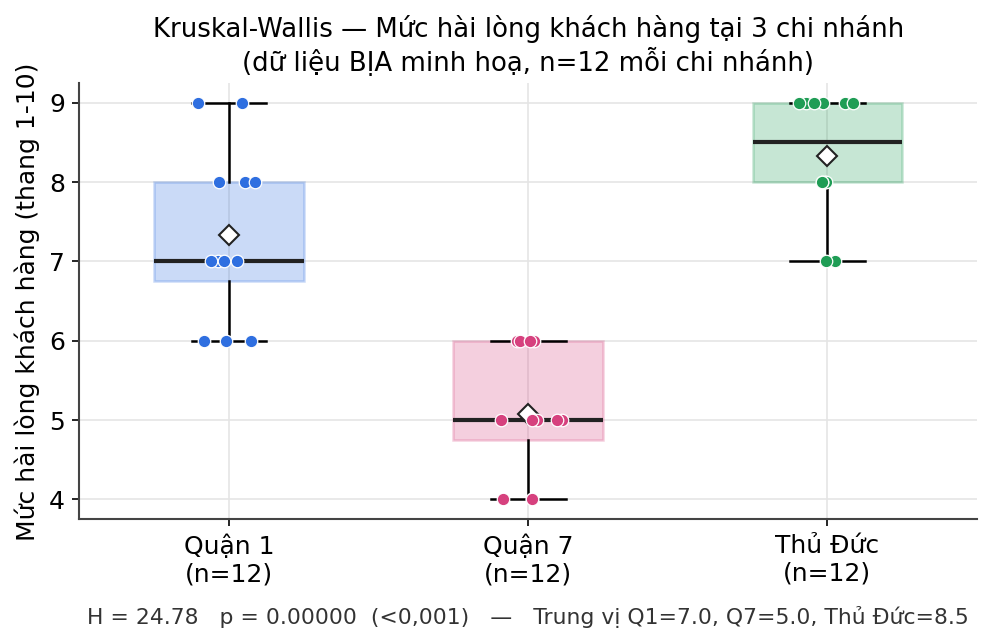
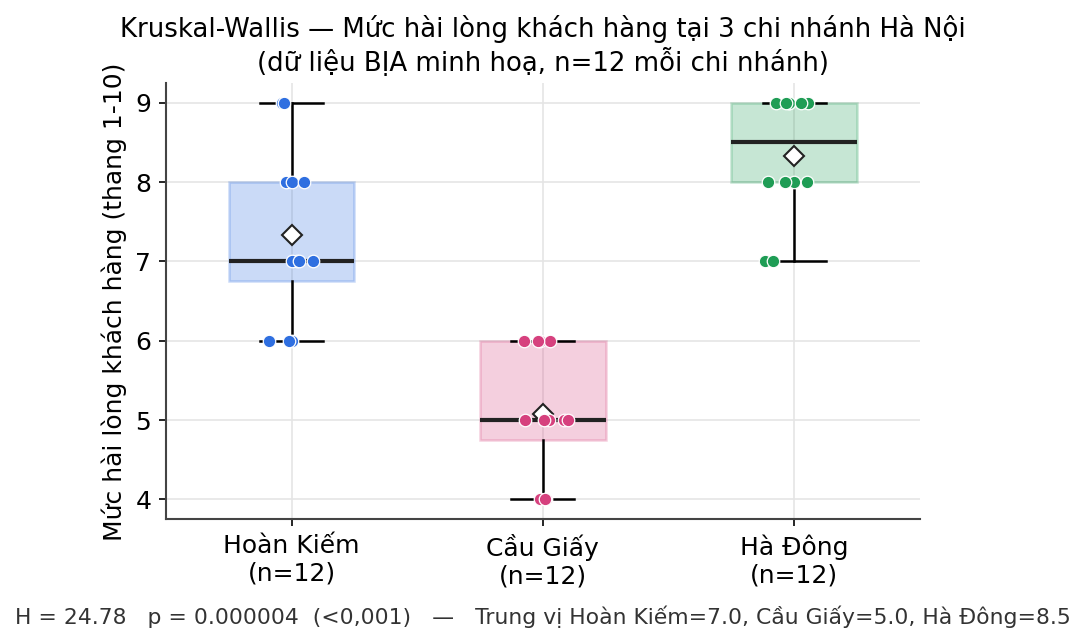
Module 07: đổi ví dụ Kruskal-Wallis sang 3 chi nhánh Hà Nội + viết rõ các bước trung gian xếp hạng cho cả 4 bộ dữ liệu minh hoạ
Kruskal-Wallis: đổi Quận 1/Quận 7/Thủ Đức (TP.HCM) sang Hoàn Kiếm/Cầu Giấy/Hà Đông
(Hà Nội), regenerate boxplot tương ứng.

Cả 4 bộ dữ liệu minh hoạ (Mann-Whitney, Wilcoxon, Kruskal-Wallis, Friedman) giờ có
thêm danh sách các bước trung gian xếp hạng (gộp dữ liệu, xếp hạng, xử lý giá trị
trùng/ties bằng hạng trung bình, cộng tổng hạng từng nhóm/cột, đối chiếu tổng kiểm
tra N(N+1)/2, rồi thay vào công thức ra kết quả gần khớp scipy) — cùng mức chi
tiết như phần tính tay ở ví dụ nhỏ, áp dụng cho cỡ mẫu lớn hơn và nhiều chiều dữ
liệu hơn (nhóm × lần đo, không chỉ 1 chiều).

diff --git a/SPSS/vi/modules/07-phi-tham-so/index.html b/SPSS/vi/modules/07-phi-tham-so/index.html
@@ -194,6 +194,13 @@ Cả 2 đều là ví dụ 'không tìm thấy' hợp lệ — khác với ví d
 <table><tr><th>Lớp</th><th>Số liệu (phút), 15 sinh viên</th></tr>
 <tr><td>Online (n=15)</td><td>38, 45, 41, 50, 36, 48, 42, 55, 39, 44, 47, 40, 52, 37, 46</td></tr>
 <tr><td>Offline (n=15)</td><td>30, 33, 28, 35, 31, 29, 34, 32, 27, 36, 30, 33, 26, 38, 31</td></tr></table>
+<p><b>Các bước trung gian (gộp cả 30 sinh viên thành 1 hàng xếp hạng, đúng cơ chế U, không phải "hộp đen"):</b></p>
+<ol style="margin:.3em 0 0;padding-left:1.3em">
+<li>Gộp 30 giá trị của cả 2 lớp, xếp hạng tăng dần từ nhỏ nhất (26 phút→hạng 1) tới lớn nhất (55 phút→hạng 30). Giá trị trùng nhau lấy hạng TRUNG BÌNH — vd hai sinh viên cùng 30 phút chiếm hạng 5 và 6 thì mỗi người nhận hạng (5+6)/2=5,5.</li>
+<li>Cộng hạng riêng từng lớp: R(Online)=342, R(Offline)=123.</li>
+<li>Kiểm tra: 342+123=465, đúng bằng N(N+1)/2=30×31/2=465 ✓.</li>
+<li>Thay vào công thức U₁=n₁n₂+n₁(n₁+1)/2−R₁, với n₁=n₂=15: U₁=15×15+15×16/2−342=225+120−342=<b>3</b>. U₂=n₁n₂−U₁=225−3=<b>222</b>. Thống kê U chính thức = MAX(U₁,U₂)=222 (quy ước SPSS/scipy lấy U lớn hơn khi báo cáo).</li>
+</ol>
 <pre>from scipy import stats
 online  = [38, 45, 41, 50, 36, 48, 42, 55, 39, 44, 47, 40, 52, 37, 46]
 offline = [30, 33, 28, 35, 31, 29, 34, 32, 27, 36, 30, 33, 26, 38, 31]
@@ -239,6 +246,13 @@ print(u, p)
 <table><tr><th>Nhân viên</th><th>1</th><th>2</th><th>3</th><th>4</th><th>5</th><th>6</th><th>7</th><th>8</th><th>9</th><th>10</th><th>11</th><th>12</th><th>13</th><th>14</th></tr>
 <tr><td>Trước</td><td>4</td><td>5</td><td>3</td><td>6</td><td>4</td><td>5</td><td>3</td><td>6</td><td>4</td><td>5</td><td>6</td><td>4</td><td>5</td><td>3</td></tr>
 <tr><td>Sau</td><td>6</td><td>7</td><td>5</td><td>8</td><td>6</td><td>6</td><td>5</td><td>9</td><td>7</td><td>6</td><td>6</td><td>5</td><td>8</td><td>4</td></tr></table>
+<p><b>Các bước trung gian (đúng cơ chế W, không phải "hộp đen" — giống hệt logic ví dụ tính tay ở trên, chỉ cỡ mẫu lớn hơn):</b></p>
+<ol style="margin:.3em 0 0;padding-left:1.3em">
+<li>Tính hiệu Sau−Trước cho 14 người: 2,2,2,2,2,1,2,3,3,1,<b>0</b>,1,3,1. Người thứ 11 có hiệu=0 (không đổi) → LOẠI khỏi bước xếp hạng, còn lại 13 người.</li>
+<li>Xếp hạng trị tuyệt đối |hiệu| của 13 người còn lại (|hiệu|=1 ở 4 người → hạng trung bình (1+2+3+4)/4=2,5 mỗi người; |hiệu|=2 ở 5 người → hạng trung bình (5+…+9)/5=7; |hiệu|=3 ở 4 người → hạng trung bình (10+…+13)/4=11,5).</li>
+<li>Cộng hạng DƯƠNG (13/13 người đều tăng điểm) = tổng toàn bộ 13 hạng = 91; hạng ÂM = 0 (không có ai giảm).</li>
+<li>Kiểm tra: 91+0=91, đúng bằng n(n+1)/2=13×14/2=91 ✓. Thống kê W = phần NHỎ HƠN = <b>0</b>.</li>
+</ol>
 <pre>from scipy import stats
 truoc = [4, 5, 3, 6, 4, 5, 3, 6, 4, 5, 6, 4, 5, 3]
 sau   = [6, 7, 5, 8, 6, 6, 5, 9, 7, 6, 6, 5, 8, 4]
@@ -272,20 +286,27 @@ print(w, p)
 </div></details>
 
 <div class="callout good"><b>📊 Bộ dữ liệu BỊA minh hoạ + chạy code Python thật (không phải số liệu lớp học thật):</b>
-<p><b>Bối cảnh minh hoạ:</b> một chuỗi cửa hàng tiện lợi có 3 chi nhánh tại TP.HCM (Quận 1, Quận 7, Thủ Đức), muốn so sánh <b>mức hài lòng khách hàng</b> (thang 1-10, khảo sát ngay sau khi thanh toán) giữa 3 chi nhánh — đây là 3 nhóm KHÁCH HÀNG ĐỘC LẬP (không ai mua ở cả 3 chi nhánh trong khảo sát này), mỗi chi nhánh phỏng vấn 12 khách (dữ liệu hoàn toàn bịa ra để minh hoạ).</p>
+<p><b>Bối cảnh minh hoạ:</b> một chuỗi cửa hàng tiện lợi có 3 chi nhánh tại <b>Hà Nội</b> (Hoàn Kiếm, Cầu Giấy, Hà Đông), muốn so sánh <b>mức hài lòng khách hàng</b> (thang 1-10, khảo sát ngay sau khi thanh toán) giữa 3 chi nhánh — đây là 3 nhóm KHÁCH HÀNG ĐỘC LẬP (không ai mua ở cả 3 chi nhánh trong khảo sát này), mỗi chi nhánh phỏng vấn 12 khách (dữ liệu hoàn toàn bịa ra để minh hoạ).</p>
 <table><tr><th>Chi nhánh</th><th>Số liệu, 12 khách hàng</th></tr>
-<tr><td>Quận 1 (n=12)</td><td>7, 8, 6, 7, 9, 8, 7, 6, 8, 7, 9, 6</td></tr>
-<tr><td>Quận 7 (n=12)</td><td>5, 6, 4, 5, 6, 5, 4, 6, 5, 4, 6, 5</td></tr>
-<tr><td>Thủ Đức (n=12)</td><td>8, 9, 9, 7, 8, 9, 8, 9, 7, 9, 8, 9</td></tr></table>
+<tr><td>Hoàn Kiếm (n=12)</td><td>7, 8, 6, 7, 9, 8, 7, 6, 8, 7, 9, 6</td></tr>
+<tr><td>Cầu Giấy (n=12)</td><td>5, 6, 4, 5, 6, 5, 4, 6, 5, 4, 6, 5</td></tr>
+<tr><td>Hà Đông (n=12)</td><td>8, 9, 9, 7, 8, 9, 8, 9, 7, 9, 8, 9</td></tr></table>
+<p><b>Các bước trung gian (gộp cả 36 khách thành 1 hàng, xếp hạng chung rồi cộng lại theo chi nhánh — đúng cơ chế Kruskal-Wallis, không phải "hộp đen"):</b></p>
+<ol style="margin:.3em 0 0;padding-left:1.3em">
+<li>Gộp 36 giá trị của cả 3 chi nhánh, xếp hạng tăng dần (giá trị trùng nhau lấy hạng TRUNG BÌNH — vd 6 giá trị "9" chiếm hạng 31-36 thì mỗi giá trị nhận hạng (31+…+36)/6=33,5).</li>
+<li>Cộng hạng riêng từng chi nhánh: R(Hoàn Kiếm)=250, R(Cầu Giấy)=84, R(Hà Đông)=332.</li>
+<li>Kiểm tra: 250+84+332=666, đúng bằng N(N+1)/2=36×37/2=666 ✓ (giống nguyên tắc đã dùng ở ví dụ tính tay 3 nhóm × 3 người, chỉ là cỡ mẫu lớn hơn).</li>
+<li>Thay vào công thức H=[12/(N(N+1))]×Σ(Rᵢ²/nᵢ)−3(N+1): Σ(Rᵢ²/nᵢ)=250²/12+84²/12+332²/12=5208,3+588+9186,7=14983. H=(12/(36×37))×14983−3×37=23,97 — khớp rất sát với H=24,78 do <code>scipy.stats.kruskal</code> trả về (chênh nhỏ vì scipy áp đúng hiệu chỉnh ties — giá trị trùng nhau — còn công thức tay ở đây là bản chưa hiệu chỉnh).</li>
+</ol>
 <pre>from scipy import stats
-q1    = [7, 8, 6, 7, 9, 8, 7, 6, 8, 7, 9, 6]
-q7    = [5, 6, 4, 5, 6, 5, 4, 6, 5, 4, 6, 5]
-tduc  = [8, 9, 9, 7, 8, 9, 8, 9, 7, 9, 8, 9]
-h, p = stats.kruskal(q1, q7, tduc)
+hoan_kiem = [7, 8, 6, 7, 9, 8, 7, 6, 8, 7, 9, 6]
+cau_giay  = [5, 6, 4, 5, 6, 5, 4, 6, 5, 4, 6, 5]
+ha_dong   = [8, 9, 9, 7, 8, 9, 8, 9, 7, 9, 8, 9]
+h, p = stats.kruskal(hoan_kiem, cau_giay, ha_dong)
 print(h, p)
 # Output: H = 24.78   p = 0.000004</pre>
-<div class="figure"><img src="../../../assets/diagrams/kw_illustrative_boxplot.png" alt="Boxplot Kruskal-Wallis minh hoạ 3 chi nhánh"/><figcaption>Boxplot + từng điểm dữ liệu cho 3 chi nhánh. Chi nhánh Quận 7 lệch hẳn xuống thấp hơn 2 chi nhánh còn lại.</figcaption></div>
-<p class="cap">Đọc kết quả: H=24,78, p=0,000004 (&lt;0,001) → có ý nghĩa thống kê rất cao, ít nhất 1 trong 3 chi nhánh khác các chi nhánh còn lại. Trung vị Quận 1=7, Quận 7=5, Thủ Đức=8,5 — Kruskal-Wallis KHÔNG tự nói chi nhánh nào khác chi nhánh nào, phải nhìn lại trung vị/boxplot từng nhóm: ở đây chi nhánh Quận 7 rõ ràng thấp hơn hẳn 2 chi nhánh kia, gần như không chồng lấn với hộp của Thủ Đức.</p></div>
+<div class="figure"><img src="../../../assets/diagrams/kw_illustrative_boxplot.png" alt="Boxplot Kruskal-Wallis minh hoạ 3 chi nhánh Hà Nội"/><figcaption>Boxplot + từng điểm dữ liệu cho 3 chi nhánh Hà Nội. Chi nhánh Cầu Giấy lệch hẳn xuống thấp hơn 2 chi nhánh còn lại.</figcaption></div>
+<p class="cap">Đọc kết quả: H=24,78, p=0,000004 (&lt;0,001) → có ý nghĩa thống kê rất cao, ít nhất 1 trong 3 chi nhánh khác các chi nhánh còn lại. Trung vị Hoàn Kiếm=7, Cầu Giấy=5, Hà Đông=8,5 — Kruskal-Wallis KHÔNG tự nói chi nhánh nào khác chi nhánh nào, phải nhìn lại trung vị/boxplot từng nhóm: ở đây chi nhánh Cầu Giấy rõ ràng thấp hơn hẳn 2 chi nhánh kia (đúng như tổng hạng R(Cầu Giấy)=84 thấp hơn nhiều so với 250 và 332), gần như không chồng lấn với hộp của Hà Đông.</p></div>
 
 <h2 id="friedman">6. Friedman test</h2>
 <p>Tương đương phi tham số của <b>ANOVA đo lường lặp lại</b> — dùng khi CÙNG một nhóm đánh giá 3+ biến/thời điểm, dữ liệu thứ bậc (tr.798–799).</p>
@@ -317,6 +338,13 @@ print(h, p)
 <tr><td>Sáng (6h-14h)</td><td>7, 6, 8, 7, 6, 7, 8, 6, 7, 8, 6, 7, 8, 7, 6, 7</td></tr>
 <tr><td>Chiều (14h-22h)</td><td>6, 5, 6, 7, 6, 5, 6, 5, 6, 6, 5, 6, 7, 6, 5, 6</td></tr>
 <tr><td>Tối (22h-6h)</td><td>4, 5, 3, 4, 5, 4, 3, 4, 5, 4, 3, 4, 5, 4, 3, 5</td></tr></table>
+<p><b>Các bước trung gian (đúng cơ chế χ², không phải "hộp đen" — giống hệt logic ví dụ tính tay ở trên, chỉ cỡ mẫu lớn hơn):</b></p>
+<ol style="margin:.3em 0 0;padding-left:1.3em">
+<li>Với MỖI công nhân, xếp hạng RIÊNG 3 giá trị của chính họ (1=thấp nhất, 3=cao nhất trong 3 ca). Vd công nhân 1 (Sáng=7, Chiều=6, Tối=4): Sáng=hạng3, Chiều=hạng2, Tối=hạng1. Ở hầu hết 16 công nhân, thứ tự lặp lại y hệt (Sáng=3, Chiều=2, Tối=1); chỉ 2-3 công nhân có điểm Sáng=Chiều nên cả hai nhận hạng trung bình 2,5.</li>
+<li>Cộng hạng theo CỘT (từng ca, qua cả 16 người): R(Sáng)=47, R(Chiều)=32,5, R(Tối)=16,5.</li>
+<li>Kiểm tra: 47+32,5+16,5=96, đúng bằng n·k(k+1)/2=16×3×4/2=96 ✓.</li>
+<li>Thay vào công thức χ²=[12/(n·k·(k+1))]×ΣRⱼ²−3n(k+1), với n=16, k=3: ΣRⱼ²=47²+32,5²+16,5²=2209+1056,25+272,25=3537,5. χ²=(12/(16×3×4))×3537,5−3×16×4=29,09 — gần với χ²=30,52 do <code>scipy.stats.friedmanchisquare</code> trả về (chênh nhỏ vì scipy áp đúng hiệu chỉnh ties, công thức tay ở đây chưa hiệu chỉnh — giống hiện tượng đã thấy ở Kruskal-Wallis bên trên).</li>
+</ol>
 <pre>from scipy import stats
 sang  = [7, 6, 8, 7, 6, 7, 8, 6, 7, 8, 6, 7, 8, 7, 6, 7]
 chieu = [6, 5, 6, 7, 6, 5, 6, 5, 6, 6, 5, 6, 7, 6, 5, 6]
